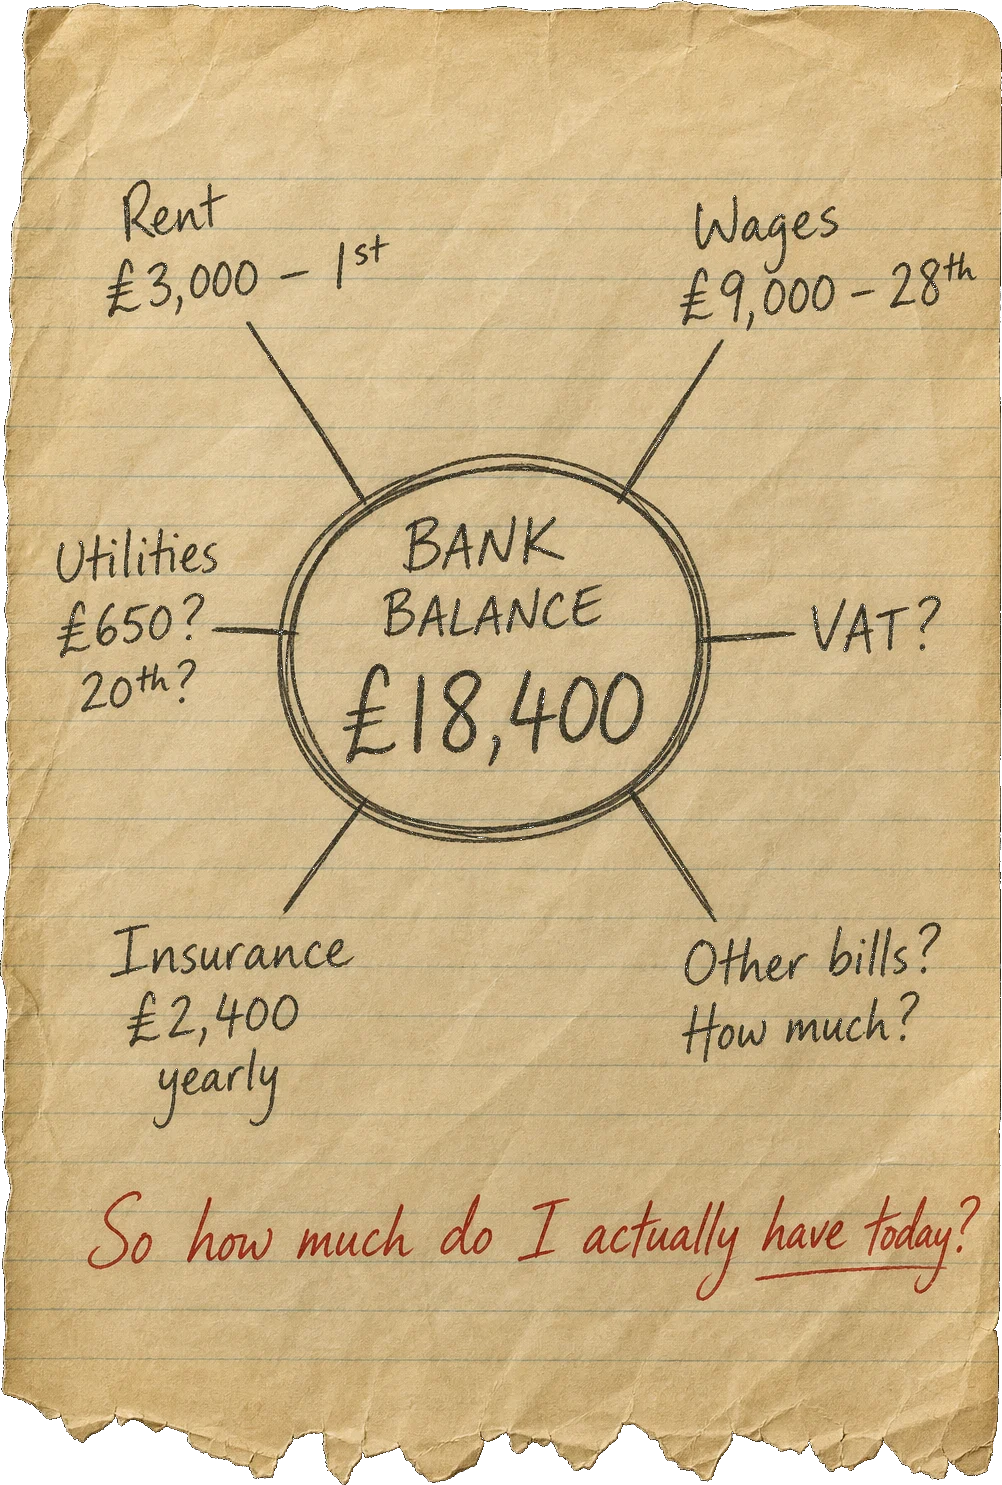
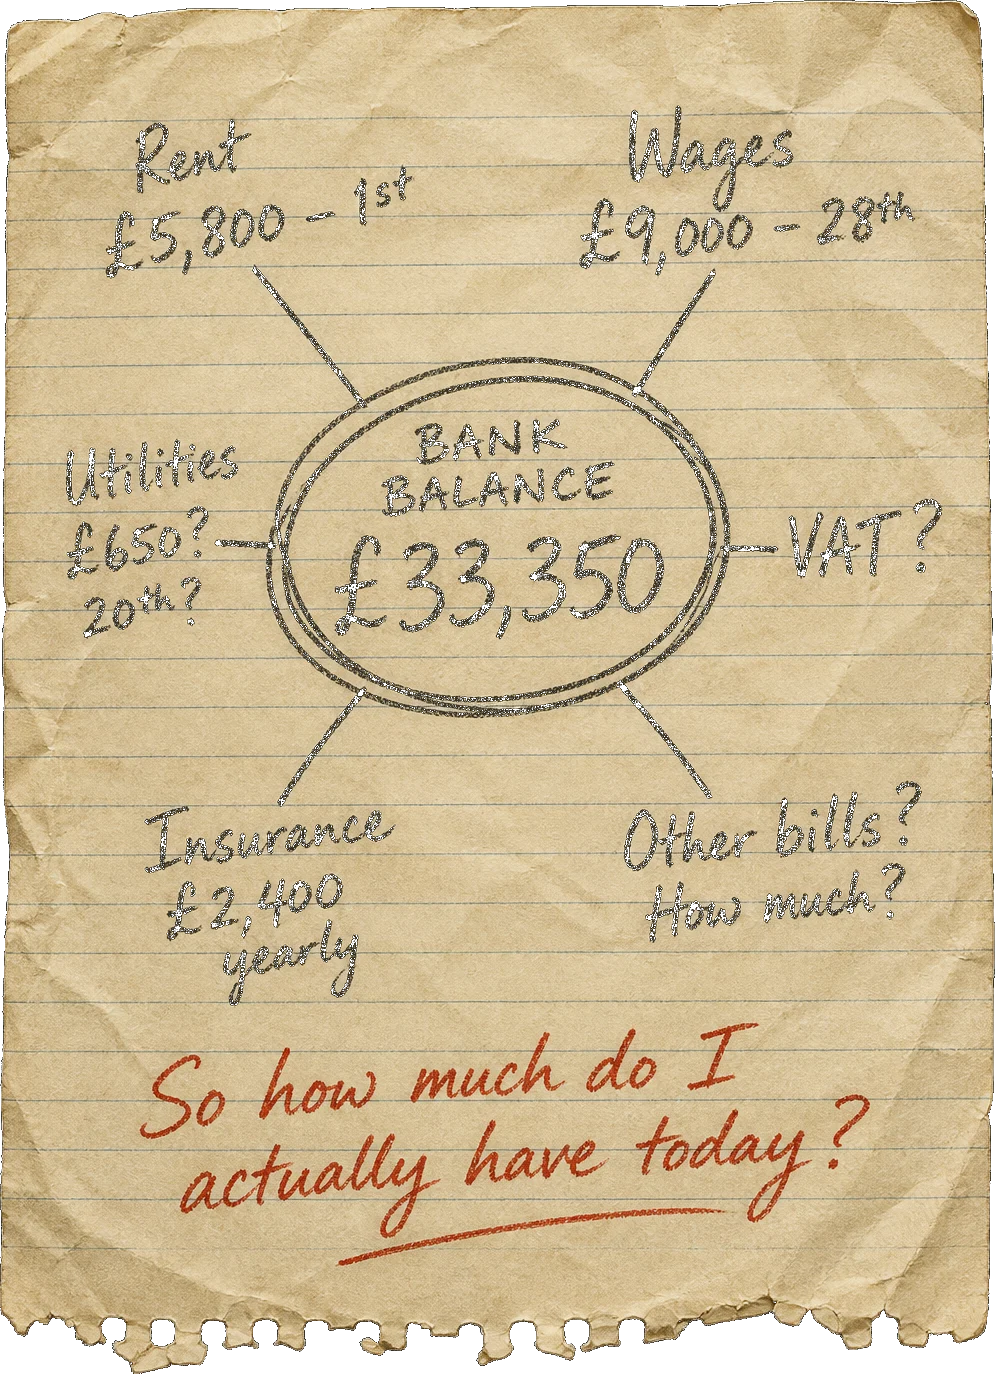
Match hero notes to the dashboard and use the real reserve chart style.
Building up now shows due dates with names in the middle, the paper uses the same bank and rent figures, and the reserve planner uses the product sawtooth.

diff --git a/src/components/marketing/HomeHeroDashboard.tsx b/src/components/marketing/HomeHeroDashboard.tsx
@@ -1,19 +1,142 @@
 /**
  * Compact Cash Prophet dashboard for the homepage hero.
- * Same layout and figures as the product monitor, drawn flat so it fills the card.
+ * Same layout and figures as the product, drawn flat so it fills the card.
  */
 const BUILDING = [
-  { name: 'Business Rates', accrued: '£1,850', total: '£2,000', pct: 92.5 },
-  { name: 'Loan', accrued: '£1,100', total: '£1,300', pct: 84.6 },
-  { name: 'Insurance', accrued: '£180', total: '£400', pct: 45 },
-  { name: 'Rent', accrued: '£2,200', total: '£5,800', pct: 37.9 },
+  { due: 'Due 1st', name: 'Business Rates', accrued: '£1,850', total: '£2,000', pct: 92.5 },
+  { due: 'Due 15th', name: 'Loan', accrued: '£1,100', total: '£1,300', pct: 84.6 },
+  { due: 'Due 10th', name: 'Insurance', accrued: '£180', total: '£400', pct: 45 },
+  { due: 'Due 1st', name: 'Rent', accrued: '£2,200', total: '£5,800', pct: 37.9 },
 ] as const
 
 const TREND =
   'M8 52 C 28 46, 48 48, 68 38 C 88 28, 108 34, 128 26 C 148 18, 168 22, 188 14 C 200 10, 212 12, 224 8'
 
-const RESERVE =
-  'M6 48 L 28 42 L 52 10 L 54 50 L 88 44 L 118 8 L 120 52 L 152 40 L 178 18 L 180 48 L 210 36 L 224 28'
+const MONTHS = ['Jan', 'Feb', 'Mar', 'Apr', 'May', 'Jun', 'Jul', 'Aug', 'Sep', 'Oct', 'Nov', 'Dec'] as const
+const CURRENT_MONTH = 6
+
+/** Planned month-end (k) and peak before a due bill, matching the real reserve sawtooth. */
+const RESERVE_MONTHS = [
+  { after: 1.2, before: 8.0, due: true },
+  { after: 3.0, before: 3.0, due: false },
+  { after: 1.5, before: 5.0, due: true },
+  { after: 3.2, before: 3.2, due: false },
+  { after: 5.0, before: 5.0, due: false },
+  { after: 2.0, before: 7.5, due: true },
+  { after: 4.0, before: 4.0, due: false },
+  { after: 6.2, before: 6.2, due: false },
+  { after: 2.2, before: 10.0, due: true },
+  { after: 4.5, before: 4.5, due: false },
+  { after: 7.0, before: 7.0, due: false },
+  { after: 2.5, before: 10.0, due: true },
+] as const
+
+function HomeHeroReserveChart() {
+  const w = 420
+  const h = 132
+  const pad = { l: 34, r: 8, t: 10, b: 22 }
+  const plotW = w - pad.l - pad.r
+  const plotH = h - pad.t - pad.b
+  const yMax = 12
+  const buffer = 0.8
+  const slot = plotW / 12
+  const xAt = (i: number) => pad.l + slot * i + slot / 2
+  const yAt = (v: number) => pad.t + (1 - v / yMax) * plotH
+  const ticks = [0, 5, 10]
+
+  const points = RESERVE_MONTHS.map((month, i) => ({
+    ...month,
+    x: xAt(i),
+    y: yAt(month.after),
+    peakY: yAt(month.before),
+  }))
+
+  const line = points
+    .slice(0, -1)
+    .map((point, i) => {
+      const next = points[i + 1]!
+      const endY = next.due ? next.peakY : next.y
+      return `M ${point.x} ${point.y} L ${next.x} ${endY}`
+    })
+    .join(' ')
+
+  const areaPts = points.flatMap((point) =>
+    point.due ? [`${point.x},${point.peakY}`, `${point.x},${point.y}`] : [`${point.x},${point.y}`],
+  )
+  const area = `${areaPts.join(' ')} ${points[11]!.x},${pad.t + plotH} ${points[0]!.x},${pad.t + plotH}`
+
+  return (
+    <div className="home-hero-dash-reserve" aria-hidden>
+      <svg viewBox={`0 0 ${w} ${h}`} className="reserve-plan-chart-svg">
+        {ticks.map((tick) => {
+          const y = yAt(tick)
+          return (
+            <g key={tick}>
+              <line
+                x1={pad.l}
+                y1={y}
+                x2={w - pad.r}
+                y2={y}
+                className={tick === 0 ? 'chart-zero-line' : 'reserve-plan-chart-grid'}
+              />
+              <text x={2} y={y + 3} className="reserve-plan-chart-axis">
+                {tick === 0 ? '£0' : tick === 5 ? '£5.0k' : '£10k'}
+              </text>
+            </g>
+          )
+        })}
+        <rect
+          x={xAt(CURRENT_MONTH) - slot / 2}
+          y={pad.t}
+          width={slot}
+          height={plotH}
+          className="reserve-plan-chart-current-month"
+        />
+        <line
+          x1={pad.l}
+          y1={yAt(buffer)}
+          x2={w - pad.r}
+          y2={yAt(buffer)}
+          className="reserve-plan-chart-buffer"
+        />
+        <polygon className="reserve-plan-chart-area" points={area} />
+        <path d={line} fill="none" className="reserve-plan-chart-balance-line" />
+        {points.map((point, i) =>
+          point.due ? (
+            <line
+              key={`due-${MONTHS[i]}`}
+              x1={point.x}
+              y1={point.peakY}
+              x2={point.x}
+              y2={point.y}
+              className="reserve-plan-chart-outgoing"
+            />
+          ) : null,
+        )}
+        {points.map((point, i) => (
+          <circle
+            key={MONTHS[i]}
+            cx={point.x}
+            cy={point.y}
+            r={i === CURRENT_MONTH ? 4.5 : 3}
+            className="reserve-plan-chart-dot"
+          />
+        ))}
+        {MONTHS.map((label, i) => (
+          <text
+            key={label}
+            x={xAt(i)}
+            y={h - 6}
+            textAnchor="middle"
+            className={`reserve-plan-chart-month${i === CURRENT_MONTH ? ' reserve-plan-chart-month--current' : ''}`}
+          >
+            {label}
+          </text>
+        ))}
+      </svg>
+    </div>
+  )
+}
 
 export function HomeHeroDashboard() {
   return (
@@ -69,6 +192,7 @@ export function HomeHeroDashboard() {
           {BUILDING.map((row) => (
             <li key={row.name} className="home-hero-dash-row">
               <span className="home-hero-dash-row-fill" style={{ width: `${row.pct}%` }} />
+              <span className="home-hero-dash-row-due">{row.due}</span>
               <span className="home-hero-dash-row-name">{row.name}</span>
               <span className="home-hero-dash-row-amt">
                 <strong>{row.accrued}</strong> / {row.total}
@@ -86,21 +210,9 @@ export function HomeHeroDashboard() {
             <path d={TREND} fill="none" stroke="#0d8f5b" strokeWidth="2.2" strokeLinecap="round" />
           </svg>
         </div>
-        <div className="home-hero-dash-card home-hero-dash-chart">
+        <div className="home-hero-dash-card home-hero-dash-chart home-hero-dash-chart--reserve">
           <h3>Reserve planner</h3>
-          <svg viewBox="0 0 232 60" aria-hidden>
-            <path d={RESERVE} fill="none" stroke="#16a34a" strokeWidth="2.2" strokeLinejoin="round" />
-            <line x1="52" y1="10" x2="52" y2="50" stroke="#dc2626" strokeWidth="1.4" />
-            <line x1="118" y1="8" x2="118" y2="52" stroke="#dc2626" strokeWidth="1.4" />
-            <circle cx="52" cy="10" r="2.6" fill="#dc2626" />
-            <circle cx="118" cy="8" r="2.6" fill="#dc2626" />
-            <text x="52" y="7" textAnchor="middle" fontSize="8" fontWeight="700" fill="#dc2626">
-              VAT
-            </text>
-            <text x="118" y="6" textAnchor="middle" fontSize="8" fontWeight="700" fill="#dc2626">
-              Corp tax
-            </text>
-          </svg>
+          <HomeHeroReserveChart />
         </div>
       </div>
     </div>

diff --git a/src/index.css b/src/index.css
@@ -34606,16 +34606,16 @@ body.setup-onboarding-spotlight-active [data-onboarding-focus='true'] {
 
 .home-hero-dash-row {
   position: relative;
-  display: flex;
+  display: grid;
+  grid-template-columns: 4.6rem minmax(0, 1fr) auto;
   align-items: center;
-  justify-content: space-between;
-  gap: 8px;
+  gap: 6px;
   flex: 1;
   min-height: 28px;
   padding: 0 8px;
   border-radius: 6px;
   overflow: hidden;
-  font-size: 0.78rem;
+  font-size: 0.74rem;
   background: #f8fafc;
 }
 
@@ -34625,19 +34625,32 @@ body.setup-onboarding-spotlight-active [data-onboarding-focus='true'] {
   top: 0;
   bottom: 0;
   background: #c4b5fd;
-  opacity: 0.9;
+  opacity: 0.32;
   pointer-events: none;
 }
 
+.home-hero-dash-row-due,
 .home-hero-dash-row-name,
 .home-hero-dash-row-amt {
   position: relative;
   z-index: 1;
 }
 
+.home-hero-dash-row-due {
+  color: #6b7280;
+  font-weight: 650;
+  white-space: nowrap;
+}
+
+.home-hero-dash-row-name {
+  text-align: center;
+  font-weight: 750;
+  color: #111827;
+}
+
 .home-hero-dash-row-amt {
   font-variant-numeric: tabular-nums;
-  color: #4b5563;
+  color: #6b7280;
   white-space: nowrap;
 }
 
@@ -34652,10 +34665,29 @@ body.setup-onboarding-spotlight-active [data-onboarding-focus='true'] {
   gap: 8px;
 }
 
-.home-hero-dash-chart svg {
+.home-hero-dash-chart:not(.home-hero-dash-chart--reserve) svg {
   display: block;
   width: 100%;
   height: 72px;
+}
+
+.home-hero-dash-chart--reserve {
+  min-width: 0;
+}
+
+.home-hero-dash-reserve {
+  min-width: 0;
+}
+
+.home-hero-dash-chart--reserve .reserve-plan-chart-svg {
+  height: 118px;
+  width: 100%;
+  margin-left: 0;
+}
+
+.home-hero-dash-chart--reserve .reserve-plan-chart-axis,
+.home-hero-dash-chart--reserve .reserve-plan-chart-month {
+  font-size: 8px;
 }
 
 .home-hero-compare-actions {

diff --git a/src/components/marketing/HomeHeroCompare.tsx b/src/components/marketing/HomeHeroCompare.tsx
@@ -17,9 +17,9 @@ export function HomeHeroCompare() {
         <div className="home-hero-visual home-hero-visual--paper">
           <img
             src={MESSY_PAPER}
-            alt="Handwritten notes around a bank balance of £18,400, asking how much is actually left today"
-            width={1002}
-            height={1485}
+            alt="Handwritten notes around a bank balance of £33,350, asking how much is actually left today"
+            width={995}
+            height={1374}
             decoding="async"
             fetchPriority="high"
           />
